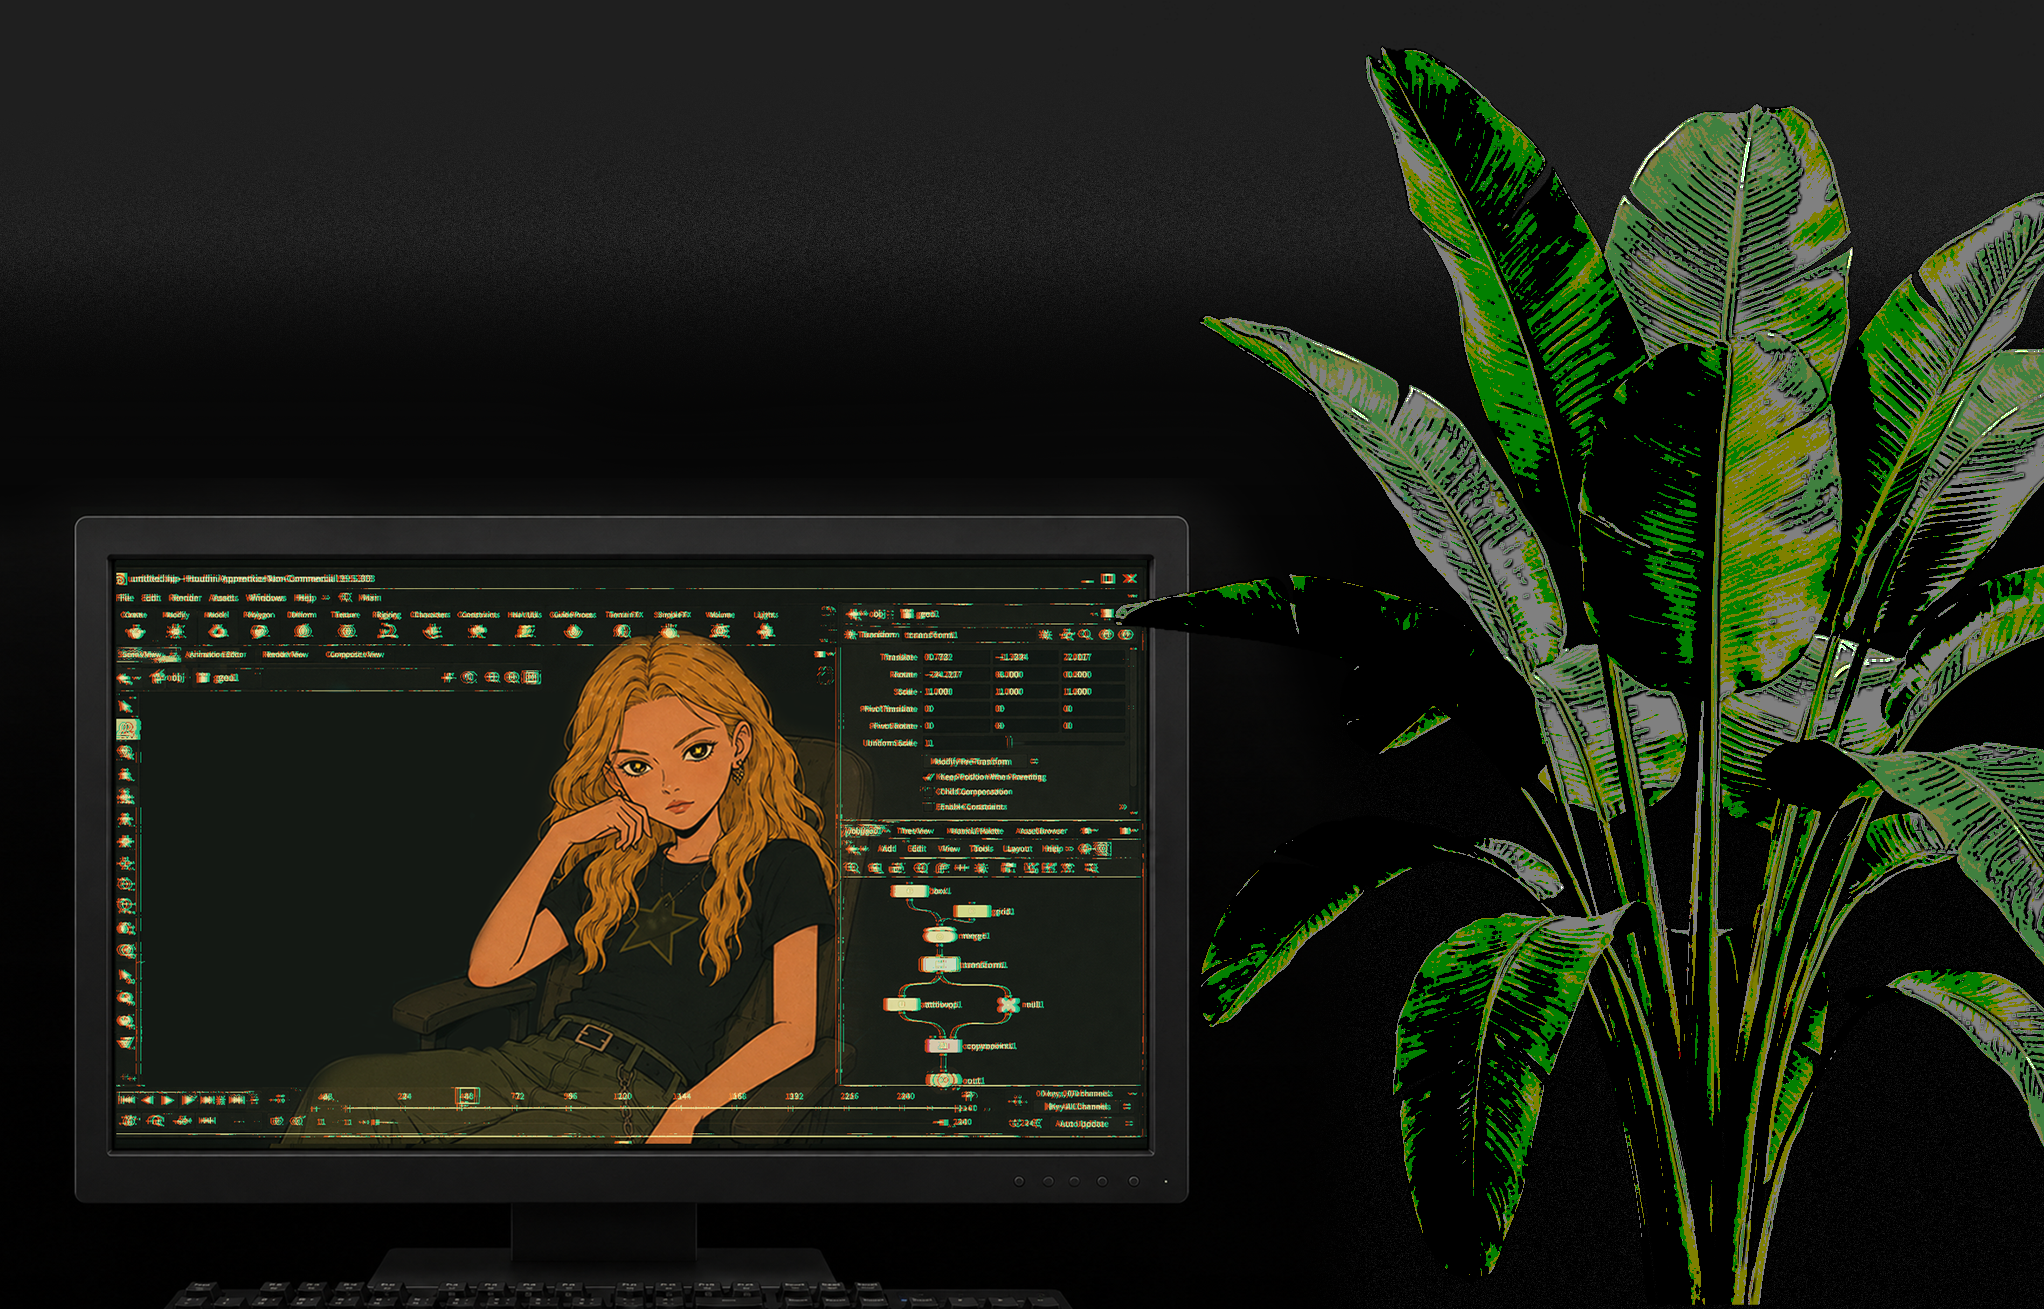
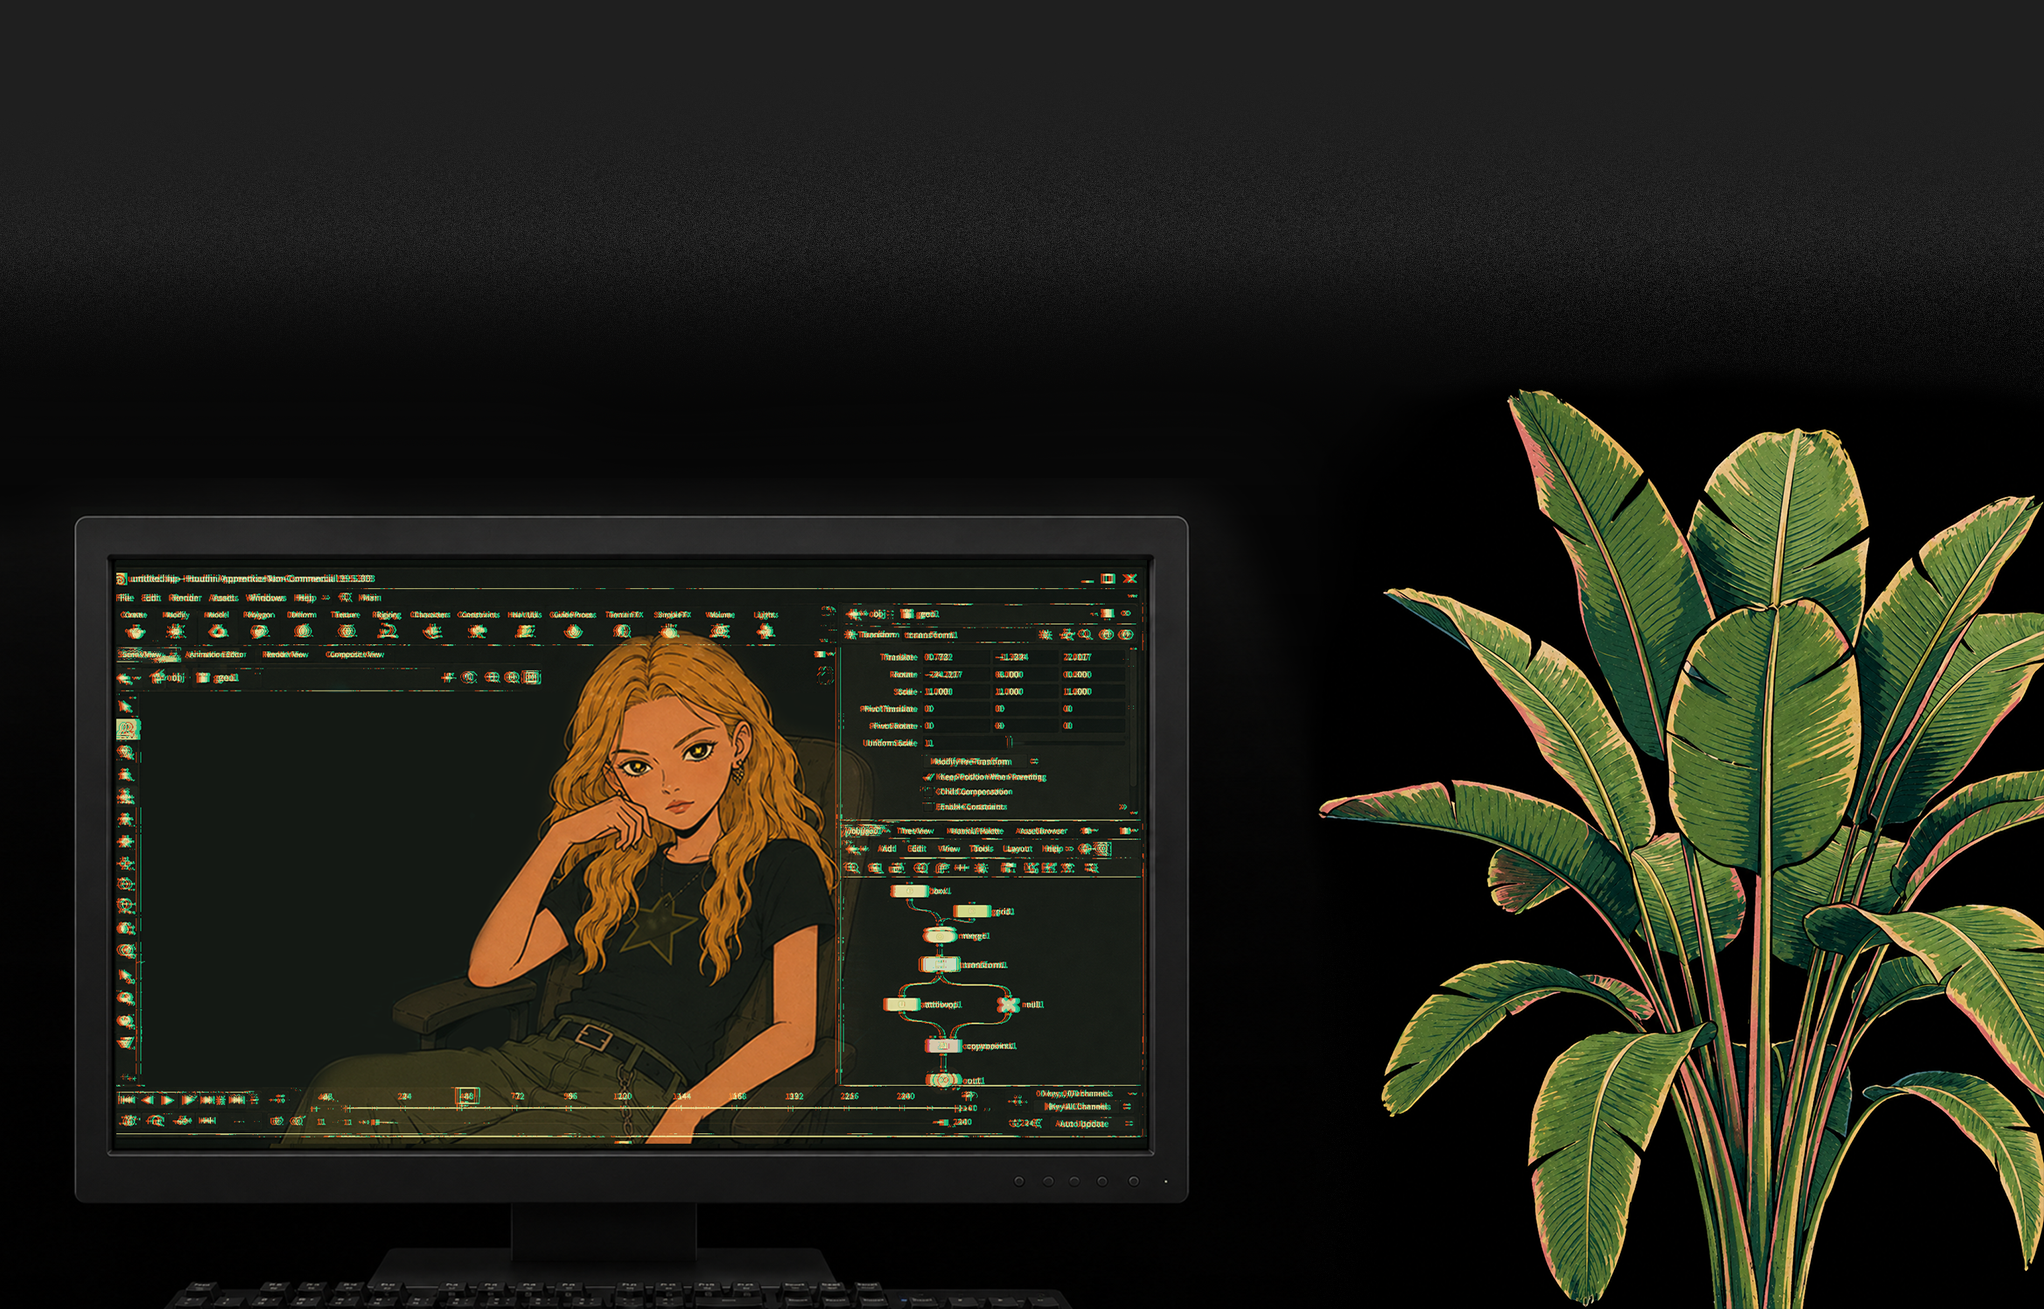
Lower contact social links

diff --git a/style.css b/style.css
@@ -380,7 +380,7 @@ body.cursor-big .cursor-dot{
 }
 .contact-links{
   position:absolute;
-  top:clamp(156px,24vh,258px);
+  top:clamp(214px,31vh,328px);
   right:clamp(32px,8vw,135px);
   display:flex;
   flex-direction:column;
@@ -440,7 +440,7 @@ body.cursor-big .cursor-dot{
   .about-intro,.info-grid{grid-template-columns:1fr}
   .portrait{max-width:240px}
   .contact,.section.contact{min-height:100svh;padding-top:70px;padding-bottom:118px}
-  .contact-links{top:23vh;right:18px;gap:clamp(18px,5vh,32px)}
+  .contact-links{top:29vh;right:18px;gap:clamp(18px,5vh,32px)}
   .contact-links a{font-size:clamp(28px,9vw,44px)}
   .contact-art{width:100vw;height:100%;object-fit:cover;object-position:42% bottom}
 }
@@ -450,7 +450,7 @@ body.cursor-big .cursor-dot{
   .base-art{top:49%;width:min(96vw,590px,70svh)}
   .work-card{height:300px}
   .work-tabs button{font-size:11px;padding:7px 8px}
-  .contact-links{top:24vh}
+  .contact-links{top:30vh}
 }
 @media (prefers-reduced-motion:reduce){
   *,*::before,*::after{animation:none!important;transition:none!important;scroll-behavior:auto!important}